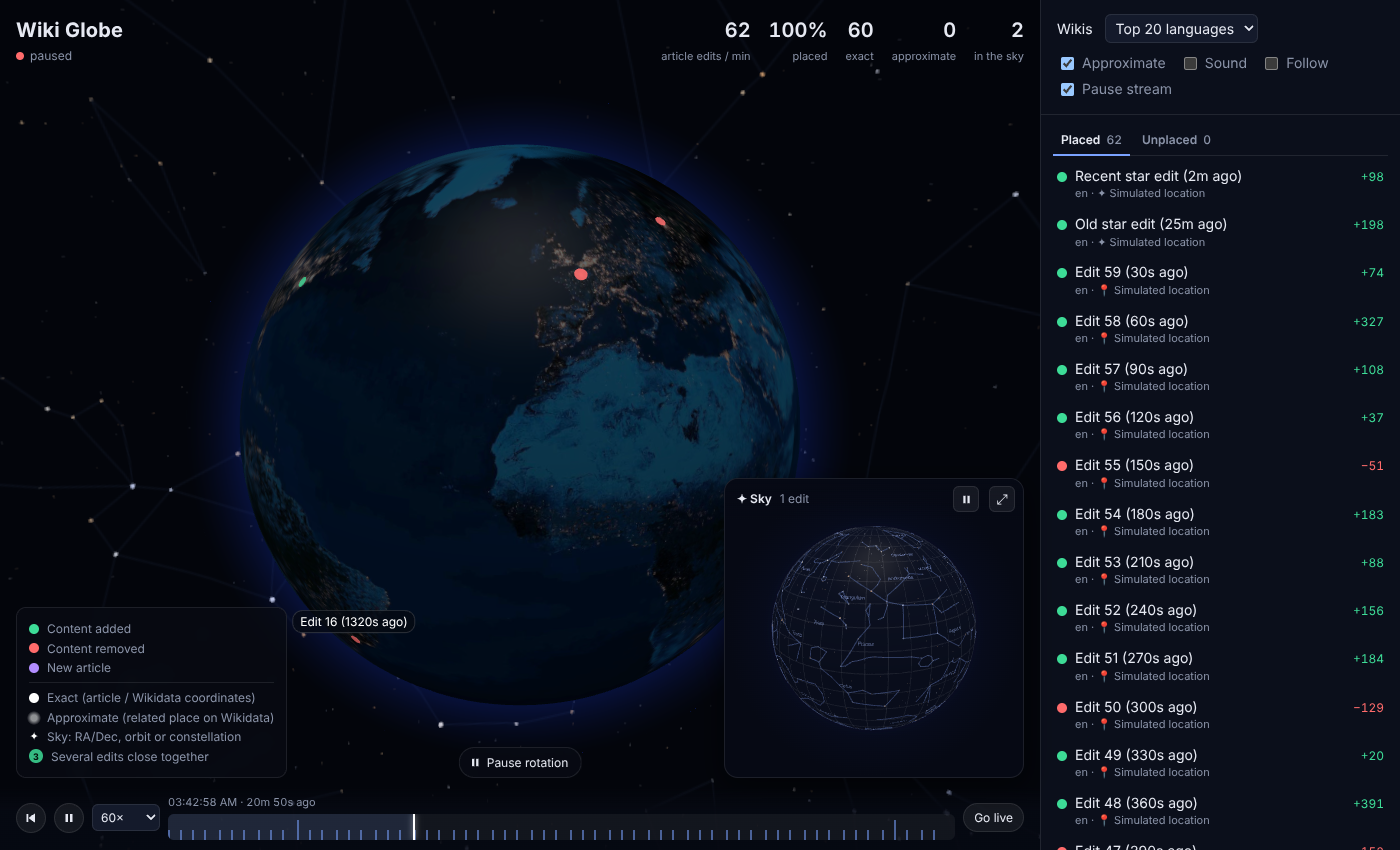
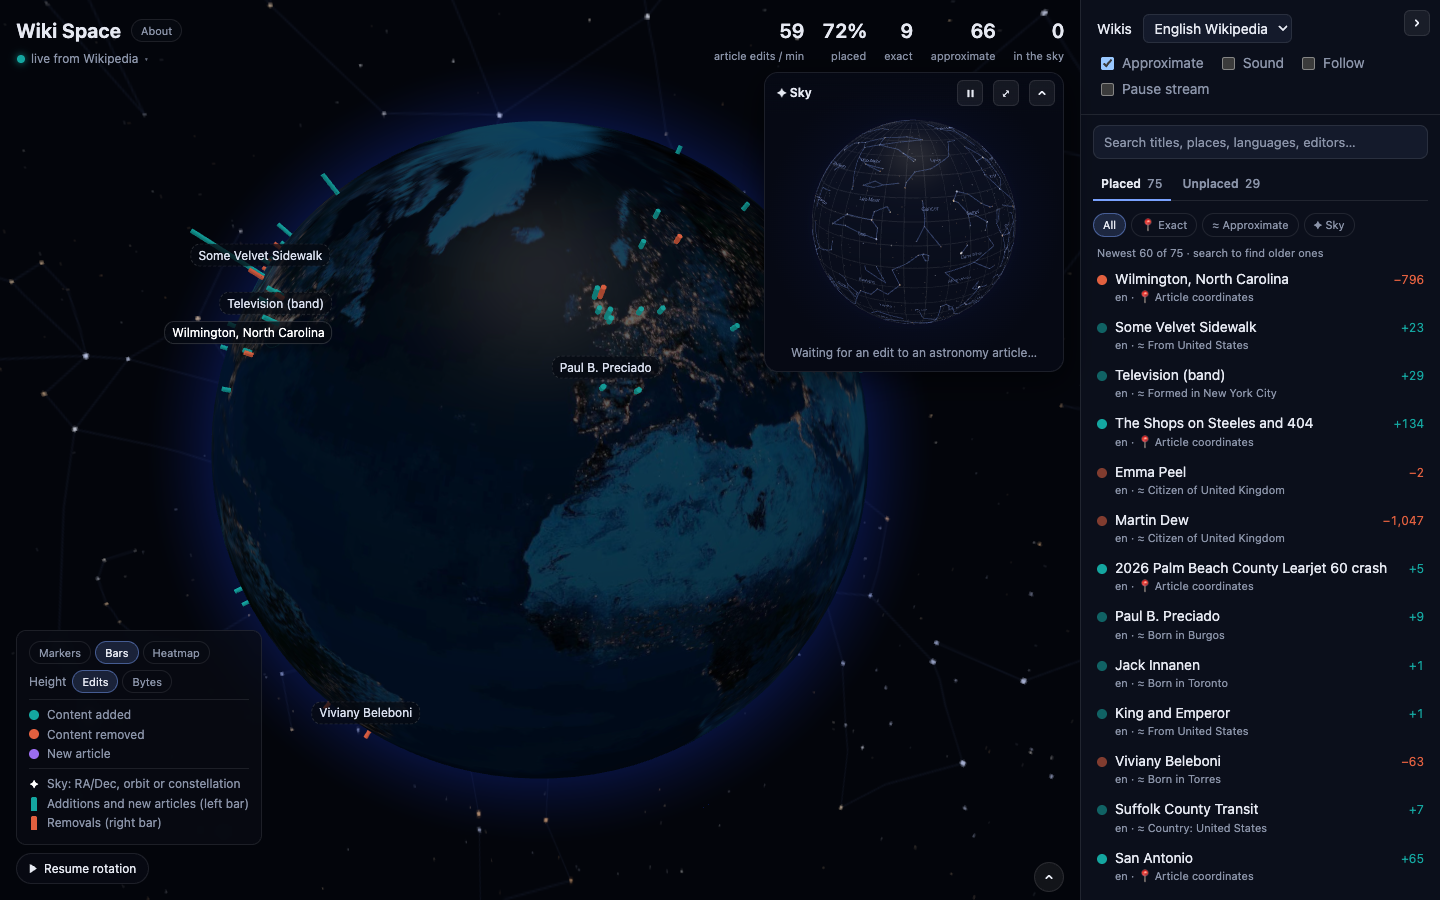
feat: Reduce API request rate

diff --git a/geo.js b/geo.js
@@ -31,8 +31,12 @@
   ];
 
   const BATCH = 50;
-  const GAP_MS = 1000;      // at most one request a second (60/min). Wikimedia's limit is per IP address, across
-                            // all its sites, and measured at roughly 80/min in 2026; other tabs share it too.
+  // Pace: one request every 2 s (30/min) while the page is visible, one every 10 s (6/min) in a background tab.
+  // Wikimedia's limit is per IP address across all its sites, measured at roughly 80/min in 2026, and other
+  // tabs and people on the same address share it, so we stay well under. Batches simply get fuller.
+  const GAP_MS = 2000;
+  const HIDDEN_GAP_MS = 10000;
+  const gap = () => (document.hidden ? HIDDEN_GAP_MS : GAP_MS);
   const MIN_AGE_MS = 1200;  // let a batch collect titles for at least this long before sending it
   const MAX_INFLIGHT = 3;
   const MAX_RETRIES = 3;
@@ -41,17 +45,19 @@
 
   // ---------- request pacing ----------
   // One shared cooldown: a 429's Retry-After counts down the same window on every Wikimedia site, so after one
-  // 429 there's no point asking another wiki. Requests are spaced GAP_MS apart, so a backlog never goes out
+  // 429 there's no point asking another wiki. Requests are spaced gap() apart, so a backlog never goes out
   // as a burst when the window reopens.
   let cooldownUntil = 0;
   let lastSent = 0;
   let inflight = 0;
   const sleep = ms => new Promise(r => setTimeout(r, ms));
-  const turnWait = () => Math.max(cooldownUntil, lastSent + GAP_MS) - Date.now();
+  const turnWait = () => Math.max(cooldownUntil, lastSent + gap()) - Date.now();
+  // Sleep in short steps so a tab coming back to the front speeds up within a second.
+  const nap = ms => sleep(Math.min(ms, 1000));
   let gateChain = Promise.resolve();
   function takeTurn() { // resolves when it's our turn to send; turns are handed out one at a time, in order
     const p = gateChain.then(async () => {
-      for (let w; (w = turnWait()) > 0;) await sleep(w);
+      for (let w; (w = turnWait()) > 0;) await nap(w);
       lastSent = Date.now();
     });
     gateChain = p;
@@ -128,7 +134,7 @@
       while (queues.size) {
         if (inflight >= MAX_INFLIGHT) { await sleep(100); continue; }
         const w = turnWait();
-        if (w > 0) { await sleep(w); continue; }
+        if (w > 0) { await nap(w); continue; }
         const { q, wait } = nextQueue(Date.now());
         if (!q) { await sleep(wait); continue; }
         lastSent = Date.now(); // this is our turn (the gate isn't held: retries queue behind it)
@@ -172,7 +178,9 @@
     const now = Date.now();
     return {
       ...lookupStatus(),
-      pacePerMin: Math.round(60e3 / GAP_MS),
+      pacePerMin: Math.round(60e3 / gap()),
+      hiddenPacePerMin: Math.round(60e3 / HIDDEN_GAP_MS),
+      hidden: document.hidden,
       batchMax: BATCH,
       sentLastMin: lastMinute(stats.sent, now),
       inflight,

diff --git a/about.html b/about.html
@@ -138,7 +138,7 @@ python3 -m http.server 8000</code></pre>
     <pre><code>for (let i = 0; i &lt; 60; i++) __wikiSpace.simulate('Edit ' + i, 'en', { lat: 48.86, lng: 2.35 + i * 0.3, time: Date.now() - (60 - i) * 30e3 })</code></pre>
     <h3>If lookups stall</h3>
     <p>Wikimedia limits how many requests each IP address can make across all its sites, and every open tab of this page (plus your
-      own Wikipedia browsing) shares that limit. The page sends at most one lookup a second, packing many articles into each one.
+      own Wikipedia browsing) shares that limit. The page sends at most one lookup every 2 seconds (one every 10 seconds while its tab is in the background), packing many articles into each one.
       If it falls behind or Wikipedia asks it to wait, the status line says so. New edits keep arriving and are placed once lookups
       catch up. Closing extra tabs of the page helps, and so does avoiding shared networks such as cloud machines.</p>
 

diff --git a/app/apipanel.js b/app/apipanel.js
@@ -52,7 +52,7 @@ function render() {
     <dl>
       <dt>Status</dt><dd>${wait}</dd>
       <dt>Pace</dt><dd>${meter(g.sentLastMin, WIKIMEDIA_LIMIT)} ${n(g.sentLastMin)} requests in the last minute.
-        We send at most ${g.pacePerMin} a minute. Wikimedia allows about ${WIKIMEDIA_LIMIT} per IP address, shared with your other tabs.</dd>
+        We send at most ${g.pacePerMin} a minute${g.hidden ? ' while this tab is in the background' : ` (${g.hiddenPacePerMin} in a background tab)`}. Wikimedia allows about ${WIKIMEDIA_LIMIT} per IP address, shared with your other tabs.</dd>
       <dt>Rate-limited</dt><dd>${limited}</dd>
       <dt>Waiting</dt><dd>${waitingItems ? `${n(waitingItems)} lookups in ${g.waiting.length} batch${g.waiting.length > 1 ? 'es' : ''} · oldest ${secs(g.behindMs)}` : 'Nothing waiting'}
         ${waitRows ? `<ul class="api-list">${waitRows}</ul>` : ''}</dd>

diff --git a/README.md b/README.md
@@ -2,7 +2,7 @@
 
 Live, non-bot edits to Wikipedia articles, shown on a 3D globe as they happen. Edits to astronomy articles (stars, galaxies, planets, asteroids) appear on a separate sky map.
 
-![screenshot](screenshot.png)
+![Wiki Space: live English Wikipedia edits as bars on the globe, the sky map, and the list of recent edits](screenshot.png)
 ![sky map](screenshot-sky.png)
 
 ## Run it
